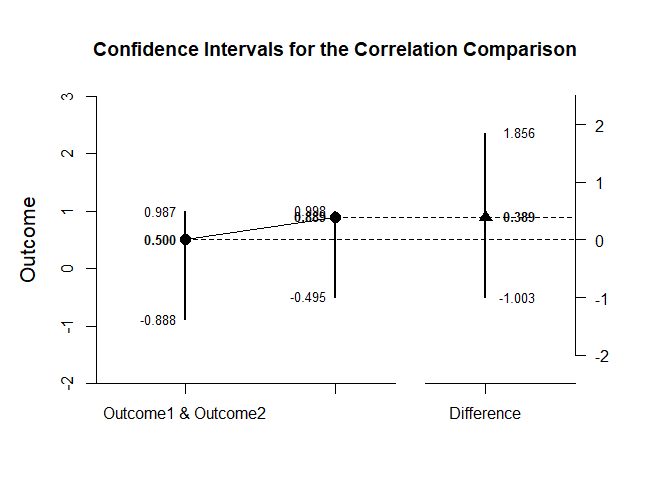
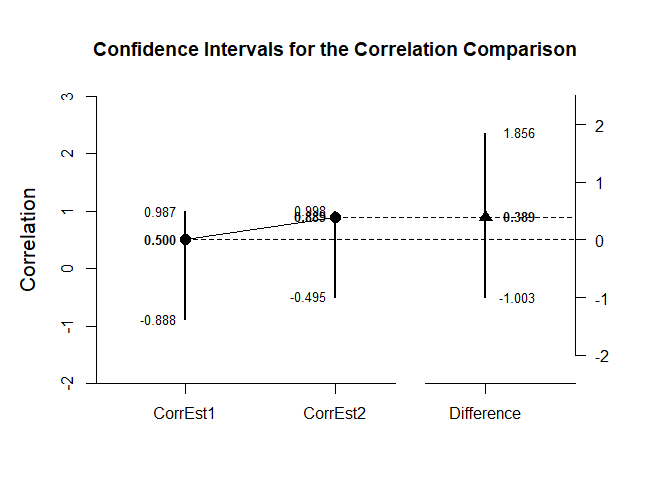
Updated correlation comparisons

Changed region(s): [[0.1562, 0.8438, 0.4062, 0.875], [0.0312, 0.375, 0.0625, 0.625], [0.4375, 0.8438, 0.5625, 0.875]]

diff --git a/docs/Tutorials/MixedCorrelationsDataTutorial.md b/docs/Tutorials/MixedCorrelationsDataTutorial.md
@@ -393,13 +393,10 @@ estimateCorrelationComparison(CorrEstimateL1,CorrEstimateL2)
 ```
 
 ```
-## $`Confidence Interval for the Correlation`
-##                           R      SE      LL      UL
-## Outcome1 & Outcome2   0.500   1.000  -0.888   0.987
-## 
-## $`Confidence Interval for the Correlation`
-##                           R      SE      LL      UL
-## Outcome1 & Outcome2   0.889   1.000  -0.495   0.998
+## $`Confidence Intervals for the Correlations`
+##                R      SE      LL      UL
+## CorrEst1   0.500   1.000  -0.888   0.987
+## CorrEst2   0.889   1.000  -0.495   0.998
 ## 
 ## $`Confidence Interval for the Correlation Difference`
 ##               Diff      LL      UL
@@ -428,13 +425,10 @@ estimateCorrelationComparison(CorrEstimateL1,CorrEstimateL2)
 ```
 
 ```
-## $`Confidence Interval for the Correlation`
-##                           R      SE      LL      UL
-## Outcome1 & Outcome2   0.500   1.000  -0.966   0.996
-## 
-## $`Confidence Interval for the Correlation`
-##                           R      SE      LL      UL
-## Outcome1 & Outcome2   0.889   1.000  -0.821   0.999
+## $`Confidence Intervals for the Correlations`
+##                R      SE      LL      UL
+## CorrEst1   0.500   1.000  -0.966   0.996
+## CorrEst2   0.889   1.000  -0.821   0.999
 ## 
 ## $`Confidence Interval for the Correlation Difference`
 ##               Diff      LL      UL

diff --git a/docs/Tutorials/MixedCorrelationsSummaryTutorial.md b/docs/Tutorials/MixedCorrelationsSummaryTutorial.md
@@ -371,13 +371,10 @@ estimateCorrelationComparison(CorrEstimateL1,CorrEstimateL2)
 ```
 
 ```
-## $`Confidence Interval for the Correlation`
-##                           R      SE      LL      UL
-## Outcome1 & Outcome2   0.500   1.000  -0.888   0.987
-## 
-## $`Confidence Interval for the Correlation`
-##                           R      SE      LL      UL
-## Outcome1 & Outcome2   0.889   1.000  -0.495   0.998
+## $`Confidence Intervals for the Correlations`
+##                R      SE      LL      UL
+## CorrEst1   0.500   1.000  -0.888   0.987
+## CorrEst2   0.889   1.000  -0.495   0.998
 ## 
 ## $`Confidence Interval for the Correlation Difference`
 ##               Diff      LL      UL
@@ -406,13 +403,10 @@ estimateCorrelationComparison(CorrEstimateL1,CorrEstimateL2)
 ```
 
 ```
-## $`Confidence Interval for the Correlation`
-##                           R      SE      LL      UL
-## Outcome1 & Outcome2   0.500   1.000  -0.966   0.996
-## 
-## $`Confidence Interval for the Correlation`
-##                           R      SE      LL      UL
-## Outcome1 & Outcome2   0.889   1.000  -0.821   0.999
+## $`Confidence Intervals for the Correlations`
+##                R      SE      LL      UL
+## CorrEst1   0.500   1.000  -0.966   0.996
+## CorrEst2   0.889   1.000  -0.821   0.999
 ## 
 ## $`Confidence Interval for the Correlation Difference`
 ##               Diff      LL      UL
